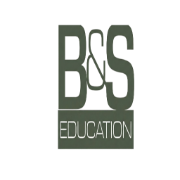
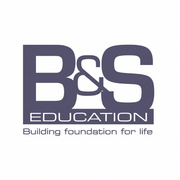
major ui fixes

diff --git a/app/components/OgImage/BsEd.takumi.vue b/app/components/OgImage/BsEd.takumi.vue
@@ -1,0 +1,97 @@
+<!-- components/OgImage/BnS.satori.vue -->
+<script setup lang="ts">
+withDefaults(defineProps<{
+  title?: string
+  description?: string
+}>(), {
+  title: 'Your Dream of Studying Abroad Is Closer Than You Think',
+  description: 'We handle your admission, visa, and travel support from start to finish.',
+})
+</script>
+
+<template>
+  <!-- Outer wrapper with soft background -->
+  <div class="w-full h-full flex bg-[#F3F4F6] p-10" style=" font-family: 'Plus Jakarta Sans', sans-serif;">
+    
+    <!-- Main Content Card (Fixed shadow for Satori) -->
+    <div 
+      class="flex flex-col w-full h-full bg-white rounded-3xl border border-gray-200 relative overflow-hidden flex-1"
+      style="box-shadow: 0 4px 12px rgba(0,0,0,0.05);"
+    >
+
+      <!-- Decorative Corner Accents (Satori friendly, zero DOM bloat) -->
+      <div class="absolute -top-32 -right-32 w-96 h-96 bg-[#414358] rounded-full opacity-5 flex" />
+      <div class="absolute -bottom-24 -right-12 w-72 h-72 border-40 border-[#C5A03A] rounded-full opacity-10 flex" />
+
+      <!-- Top Accent Bar -->
+      <div class="w-full h-2 flex bg-[#C5A03A]" />
+
+      <div class="flex flex-col flex-1 justify-between p-12 z-10">
+        
+        <!-- Header Row: Logo + Domain -->
+        <div class="flex items-center justify-between w-full">
+          <img
+            src="/img/bs-primary.png"
+            alt="B&S Educational Services"
+            style="height: 56px; object-fit: contain;"
+          />
+          <div class="flex items-center px-5 py-2 bg-[#F8F9FA] rounded-full border border-gray-100">
+            <span class="text-[#414358 tracking-wide">
+              bseducationalservices.com
+            </span>
+          </div>
+        </div>
+
+        <!-- Center: Headline & Description -->
+        <div class="flex flex-col gap-6 max-w-[85%] mt-6">
+          <!-- Eyebrow -->
+          <div class="flex items-center gap-4">
+            <div class="w-10 h-1.5 bg-[#C5A03A] rounded-full flex" />
+            <span class="text-[#C5A03A] text-xl  tracking-[0.15em] uppercase">
+              Free Expert Guidance
+            </span>
+          </div>
+
+          <!-- Headline -->
+          <h1 class="text-[56px] font-black leading-[1.1] text-[#1A1B26] m-0 tracking-tight">
+            {{ title }}
+          </h1>
+
+          <!-- Description -->
+          <p class="text-[26px] font-medium text-[#64657A] leading-[1.4] m-0 max-w-[95%]">
+            {{ description }}
+          </p>
+        </div>
+
+        <!-- Footer: Stats Row -->
+        <div class="flex items-center mt-auto pt-10">
+          
+          <!-- Stat 1 -->
+          <div class="flex flex-col mr-16">
+            <span class="text-[38px] font-black text-[#414358] leading-none mb-2">1,000+</span>
+            <span class=" text-[#9CA3AF] uppercase tracking-widest">Students Placed</span>
+          </div>
+
+          <!-- Divider -->
+          <div class="w-px h-16 bg-gray-200 mr-16 flex" />
+
+          <!-- Stat 2 -->
+          <div class="flex flex-col mr-16">
+            <span class="text-[38px] font-black text-[#414358] leading-none mb-2">99%</span>
+            <span class=" text-[#9CA3AF] uppercase tracking-widest">Visa Success</span>
+          </div>
+
+          <!-- Divider -->
+          <div class="w-px h-16 bg-gray-200 mr-16 flex" />
+
+          <!-- Stat 3 -->
+          <div class="flex flex-col">
+            <span class="text-[38px] font-black text-[#C5A03A] leading-none mb-2">100% Free</span>
+            <span class=" text-[#9CA3AF] uppercase tracking-widest">Consultation</span>
+          </div>
+          
+        </div>
+      </div>
+    </div>
+  </div>
+</template>

diff --git a/app/components/HeroSection.vue b/app/components/HeroSection.vue
@@ -27,38 +27,47 @@
     <div
       class="relative z-10 w-full max-w-7xl mx-auto flex flex-col-reverse md:flex-row items-center justify-between gap-10 md:gap-12"
     >
-      <div
-        class="text-black w-full md:w-[55%] flex flex-col items-center md:items-start space-y-6 text-center md:text-left mt-8 md:mt-0"
-      >
-        <h1
-          class="text-3xl sm:text-4xl md:text-5xl lg:text-5xl font-bold leading-tight"
-        >
-          Study Abroad Is Closer Than You Think — Get Free Expert Guidance Today
-        </h1>
-        <p
-          class=" sm:text-lg text-gray-800 max-w-lg"
-        >
-          We handle your admission, visa, and travel support from start to finish. Over 1,000 students placed. 99% visa success rate. Free consultation.
-        </p>
-        <div
-          class="flex flex-col sm:flex-row w-full sm:w-auto items-stretch sm:items-center gap-4"
-        >
-          <UButton
-            size="lg"
-            class="bg-secondary text-white justify-center font-bold px-6 py-3 hover:bg-secondary/70 rounded-lg shadow-lg"
-          >
-            <NuxtLink to="/contact" class="text-white">Book Free Consultation</NuxtLink>
-          </UButton>
-          <UButton
-            icon="i-lucide-send"
-            size="lg"
-            @click="openWhatsApp"
-            class="px-6 py-3 bg-base justify-center cursor-pointer hover:bg-base/80 text-alt font-semibold rounded-lg shadow-lg"
-          >
-            Chat on WhatsApp
-          </UButton>
-        </div>
-      </div>
+ <div
+  class="text-black w-full md:w-[55%] flex flex-col items-center md:items-start space-y-5 text-center md:text-left mt-8 md:mt-0"
+>
+  <!-- Eyebrow: pulls the CTA line out of the headline -->
+  <span class="inline-flex items-center gap-2 bg-secondary/10 text-secondary text-sm font-semibold px-4 py-1.5 rounded-full">
+    <span class="w-2 h-2 rounded-full bg-secondary animate-pulse"></span>
+    Get Free Expert Guidance Today
+  </span>
+
+  <!-- Headline is now focused on one idea -->
+  <h1 class="text-3xl sm:text-4xl md:text-[2.75rem] lg:text-5xl font-bold leading-[1.15] tracking-tight">
+    Your Dream of Studying Abroad Is
+    <span class="text-secondary"> Closer Than You Think</span>
+  </h1>
+
+  <!-- Supporting copy — short and clean -->
+<p class="text-gray-600 sm:text-lg max-w-md leading-relaxed">
+  We handle your admission, visa, and travel support from start to finish — 
+  over 1,000 students placed, 99% visa success rate, and a free consultation 
+  to get you started.
+</p>
+
+
+  <!-- CTAs unchanged -->
+  <div class="flex flex-col sm:flex-row w-full sm:w-auto items-stretch sm:items-center gap-4 pt-1">
+    <UButton
+      size="lg"
+      class="bg-secondary text-white justify-center font-bold px-6 py-3 hover:bg-secondary/70 rounded-lg shadow-lg"
+    >
+      <NuxtLink to="/contact" class="text-white">Book Free Consultation</NuxtLink>
+    </UButton>
+    <UButton
+      icon="i-lucide-send"
+      size="lg"
+      @click="openWhatsApp"
+      class="px-6 py-3 bg-base justify-center cursor-pointer hover:bg-base/80 text-alt font-semibold rounded-lg shadow-lg"
+    >
+      Chat on WhatsApp
+    </UButton>
+  </div>
+</div>
 
       <div
         class="w-full md:w-[45%] flex justify-center items-center"

diff --git a/nuxt.config.ts b/nuxt.config.ts
@@ -34,14 +34,14 @@ export default defineNuxtConfig({
           name: "og:description",
           content: "B&S Educational Services - Building Foundation for Life.",
         },
-        { name: "og:image", content: "/img/main-logo.png" },
+        { name: "og:image", content: "/img/bs-primary.png" },
         { name: "og:image:type", content: "image/png" },
         { name: "og:title", content: "B&S Educational Services" },
         {
           name: "og:description",
           content: "B&S Educational Services - Building Foundation for Life.",
         },
-        { name: "og:image", content: "/img/main-logo.png" },
+        { name: "og:image", content: "/img/bs-primary.png" },
         { name: "og:url", content: "https://bs-education.com" },
         { name: "og:type", content: "website" },
         { name: "twitter:card", content: "summary_large_image" },
@@ -50,7 +50,7 @@ export default defineNuxtConfig({
           name: "twitter:description",
           content: "B&S Educational Services - Building Foundation for Life.",
         },
-        { name: "twitter:image", content: "/img/main-logo.png" },
+        { name: "twitter:image", content: "/img/bs-primary.png" },
         { name: "twitter:site", content: "@bs_education" },
         { name: "twitter:creator", content: "@bs_education" },
       ],
@@ -62,8 +62,8 @@ export default defineNuxtConfig({
           crossorigin: "",
         },
         { rel: 'icon', type: 'image/x-icon', href: '/favicon.ico' },
-        { rel: 'icon', type: 'image/png', sizes: '32x32', href: '/favicon-32x32.png' },
-        { rel: 'icon', type: 'image/png', sizes: '16x16', href: '/favicon-16x16.png' },
+        { rel: 'icon', type: 'image/png', sizes: '32x32', href: '/icon-32x32.png' },
+        { rel: 'icon', type: 'image/png', sizes: '16x16', href: '/icon-16x16.png' },
         { rel: 'apple-touch-icon', sizes: '180x180', href: '/apple-touch-icon.png' },
         { rel: 'manifest', href: '/site.webmanifest' }
       ]
@@ -105,7 +105,7 @@ export default defineNuxtConfig({
     compressPublicAssets: true,
     minify: true
   },
-  modules: ["@nuxt/image", "@nuxt/ui", "@nuxtjs/supabase", "@vueuse/nuxt", "@nuxtjs/leaflet", "nuxt-security", "@nuxtjs/seo", "nuxt-og-image"],
+  modules: ["@nuxt/image", "@nuxt/ui", "@nuxtjs/supabase", "@vueuse/nuxt", "@nuxtjs/leaflet", "nuxt-security", "@nuxtjs/seo", "nuxt-og-image", "nuxt-seo-utils"],
   css: [
     "~/assets/css/main.css",
     "quill/dist/quill.snow.css",
@@ -132,6 +132,9 @@ export default defineNuxtConfig({
     format: ["webp", "avif", "jpg", "png", "jpeg"],
     domains: ["minjvvxdfdwmbrtphzpr.supabase.co"],
   },
+  ogImage: {
+    enabled: true
+  },
 
   vite: {
     build: {
@@ -144,5 +147,11 @@ export default defineNuxtConfig({
       }
     },
     
+  },
+  site: {
+    url: 'https://bs-education.com',
+    name: 'B&S Educational Services',
+    description: 'Your trusted partner for studying abroad',
+    defaultLocale: 'en',
   },
 });

diff --git a/app/components/AppFooter.vue b/app/components/AppFooter.vue
@@ -1,5 +1,5 @@
 <template>
-  <footer class="bg-[#040c0b] text-white">
+  <footer class="bg-[#181820] text-white">
     <!-- Main Footer Content -->
     <div class="py-12 px-6 md:px-8 lg:px-16">
       <div class="max-w-6xl mx-auto">
@@ -9,10 +9,11 @@
           <div class="lg:col-span-1">
             <div class="mb-4">
               <img
-                src="/img/bs-secondary.png"
+                src="/img/bs-primary.png"
                 alt="B&S Educational Services Logo"
                 width="140"
                 height="auto"
+                class="invert"
               />
             </div>
             <p class="text-gray-300 text-sm leading-relaxed mb-4">
@@ -70,14 +71,14 @@
               <div class="text-sm">
                 <p class="text-gray-300 mb-1">Address</p>
                 <p class="text-gray-400 text-xs">
-                  No 308, Kings Plaza<br />
+                  No 308, 3rd floor, Kings Plaza<br />
                   Jahi, Abuja, Nigeria
                 </p>
               </div>
 
               <div class="text-sm flex flex-col">
                 <p class="text-gray-300 mb-1">Phone</p>
-                <a href="tel:+2349012345678" class="text-[#ACBEA3] hover:text-white text-xs transition-colors">
+                <a href="tel:+2348065442707" class="text-[#ACBEA3] hover:text-white text-xs transition-colors">
                   +234 806 544 2707
                 </a>
               </div>
@@ -111,7 +112,7 @@
     </div>
 
     <!-- Bottom Bar -->
-    <div class="border-t border-white bg-[#040c0b]">
+    <div class="border-t border-white bg-[#181820]">
       <div class="max-w-6xl mx-auto px-6 md:px-8 lg:px-16 py-4">
         <div class="flex flex-col md:flex-row justify-between items-center gap-3">
           <div class="flex flex-wrap items-center gap-4 text-xs text-gray-100">

diff --git a/app/components/HomeStats.vue b/app/components/HomeStats.vue
@@ -29,7 +29,7 @@ import { onMounted, nextTick } from 'vue'
 
 const stats = [
   { id: 'since',    label: 'In business since',    display: '2007',   target: 2007, suffix: '',  aria: 'Since 2007',                         static: true,  color: 'var(--color-primary)' },
-  { id: 'partners', label: 'Partner universities', display: '15+',    target: 15,   suffix: '+', aria: 'Fifteen plus partner universities',   static: false, color: 'var(--color-secondary)' },
+  { id: 'partners', label: 'Partner universities', display: '17+',    target: 15,   suffix: '+', aria: 'Fifteen plus partner universities',   static: false, color: 'var(--color-secondary)' },
   { id: 'students', label: 'Students placed',      display: '1,000+', target: 1000, suffix: '+', aria: 'One thousand plus students placed',   static: false, color: 'var(--color-base)' },
   { id: 'visa',     label: 'Visa success rate',    display: '99%',    target: 99,   suffix: '%', aria: 'Ninety nine percent visa success rate', static: false, color: 'var(--color-secondary)' },
 ]

diff --git a/app/pages/index.vue b/app/pages/index.vue
@@ -7,19 +7,19 @@
     <Blog />
     <Testimonials />
     <Faq />
-    <Chat />
   </div>
 </template>
 <script setup>
 useSeoMeta({
   title: 'B&S Educational Services - Your Path to Studying Abroad',
   description: 'B&S Educational Services offers free expert counselling, admission processing, visa support, and test prep for students looking to study in the UK, USA, Hungary, Australia, and more.',
-  ogTitle: 'B&S Educational Services - Your Path to Studying Abroad',
-  ogDescription: 'B&S Educational Services provides comprehensive support for students aspiring to study abroad. From free consultations to visa assistance, we are here to help you succeed.',
-  ogImage: '/img/main-logo.jpg',
   twitterCard: 'summary_large_image',
   robots: 'index, follow',
   canonical: 'https://bs-education.com/',
+})
+defineOgImage('BsEd', {
+  title: 'Your Dream of Studying Abroad Is Closer Than You Think',
+  description: 'Free expert guidance — admission, visa & travel support from start to finish.',
 })
 
 useHead({

diff --git a/app/pages/contact/index.vue b/app/pages/contact/index.vue
@@ -456,6 +456,20 @@
 <script setup>
 import { reactive, ref, watch, nextTick } from 'vue';
 
+useSeoMeta({
+  title: 'B&S Educational Services - Your Path to Studying Abroad',
+  description: 'B&S Educational Services offers free expert counselling, admission processing, visa support, and test prep for students looking to study in the UK, USA, Hungary, Australia, and more.',
+  twitterCard: 'summary_large_image',
+  robots: 'index, follow',
+  canonical: 'https://bs-education.com/contact',
+})
+
+defineOgImage('BnS', {
+  title: 'Your Dream of Studying Abroad Is Closer Than You Think',
+  description: 'Free expert guidance — admission, visa & travel support from start to finish.',
+  eyebrow: 'B&S Educational Services',
+})
+
 // Form Data
 const destinations = [
   "UK",

diff --git a/app/components/Faq.vue b/app/components/Faq.vue
@@ -182,7 +182,7 @@ const mainFaqs = ref([
   },
   {
     question: "What happens if my visa gets rejected?",
-    answer: "While rare with our guidance (we have a 95%+ success rate), we provide <strong>full support for reapplication or alternative options</strong>. This includes reviewing rejection reasons, strengthening your profile, or exploring other suitable countries. Your success is our commitment.",
+    answer: "While rare with our guidance (we have a 99%+ success rate), we provide <strong>full support for reapplication or alternative options</strong>. This includes reviewing rejection reasons, strengthening your profile, or exploring other suitable countries. Your success is our commitment.",
     cta: null
   },
   {

diff --git a/app/assets/css/main.css b/app/assets/css/main.css
@@ -4,8 +4,8 @@
 
 @theme{
     --color-primary: #4F5B49;
-    --color-base: #0F2E2A;
-    --color-secondary: #EC4E20;
+    --color-base: #55566F;
+    --color-secondary:#B8922A;
     --color-alt: #FFF7F8;
 }
 

diff --git a/app/layouts/default.vue b/app/layouts/default.vue
@@ -3,6 +3,7 @@
     <AppHeader class="z-50" />
     <main>
       <NuxtPage />
+        <Chat />
     </main>
     <AppFooter class="z-50" />
   </div>
